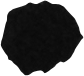
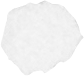
fixed the flickering in drawn poop

diff --git a/MainApp/src/scenes/DrawScene/DrawnScene.cpp b/MainApp/src/scenes/DrawScene/DrawnScene.cpp
@@ -121,6 +121,7 @@ void DrawnScene::makePoop() {
                 p.img = vine->dotImg;
                 p.dotSizeD = vine->dotSizeD;
                 p.dotSize  = vine->dotSizeD;
+                p.colorD = complimentaryColours[(int)ofRandom(0, complimentaryColours.size())];
                 
                 poop.push_back(p);
                 
@@ -156,6 +157,7 @@ void DrawnScene::update() {
         if(nFrc > 0) {
             frc /= nFrc;
         }
+        it->updateColor();
         it->addForce(frc, 1);
         field.addVectorCircle(pos.x, pos.y, vel.x, vel.y, r*2, .1);
 
@@ -368,7 +370,7 @@ void DrawnScene::draw() {
         ofVec2f pos = it->getPosition();
         ofEnableAlphaBlending();
         //previously just black
-        ofSetColor(complimentaryColours[(int)ofRandom(0, complimentaryColours.size())], it->alpha);
+        ofSetColor(it->color, it->alpha);
         ofPushMatrix();
         ofTranslate(pos);
         ofRotate(it->getRotation());
@@ -457,6 +459,11 @@ void DrawnScene::handleCommands(TwitterCommand& cmd, Effects& fx) {
         for(int i=0; i<vines.size(); i++) {
             vines[i].colorDes = complimentaryColours[(int)ofRandom(0, complimentaryColours.size())]; 
         }
+        for(int i=0; i<poop.size(); i++) {
+            poop[i].colorD = complimentaryColours[(int)ofRandom(0, complimentaryColours.size())]; 
+        }
+        
+        
         
 		break;
 	}

diff --git a/MainApp/src/scenes/DrawScene/DrawnScene.h b/MainApp/src/scenes/DrawScene/DrawnScene.h
@@ -41,13 +41,19 @@ public:
         bFade =false;
         alpha = 255;
     }
+    
+    void updateColor() {
+        color.r += (colorD.r - color.r) * 0.2;
+        color.g += (colorD.g - color.g) * 0.2;
+        color.b += (colorD.b - color.b) * 0.2;
+    }
   
     bool bFade;
     float alpha;
     float birthdate;
     float dotSize, dotSizeD;
     ofImage * img;
-    
+    ofColor color, colorD;    
 };
 
 
